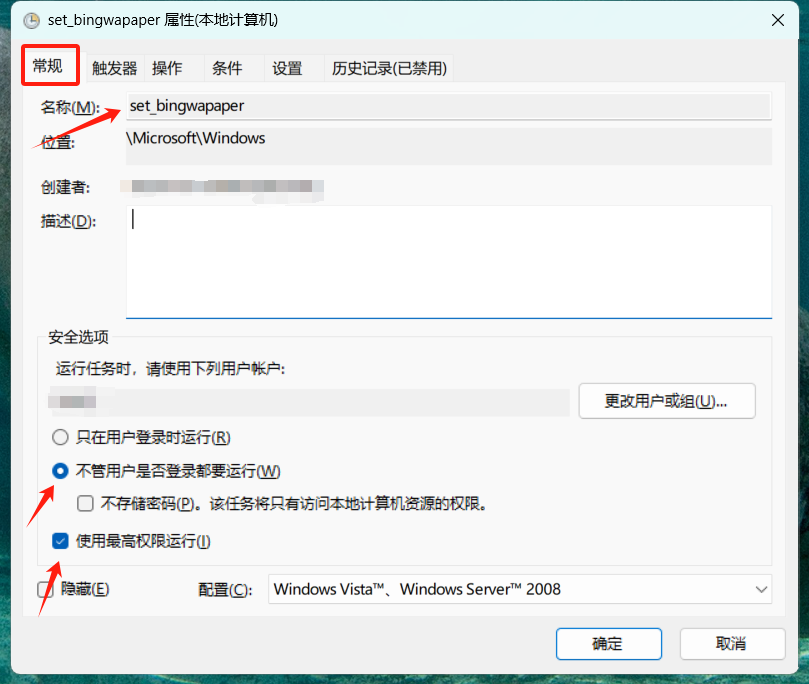
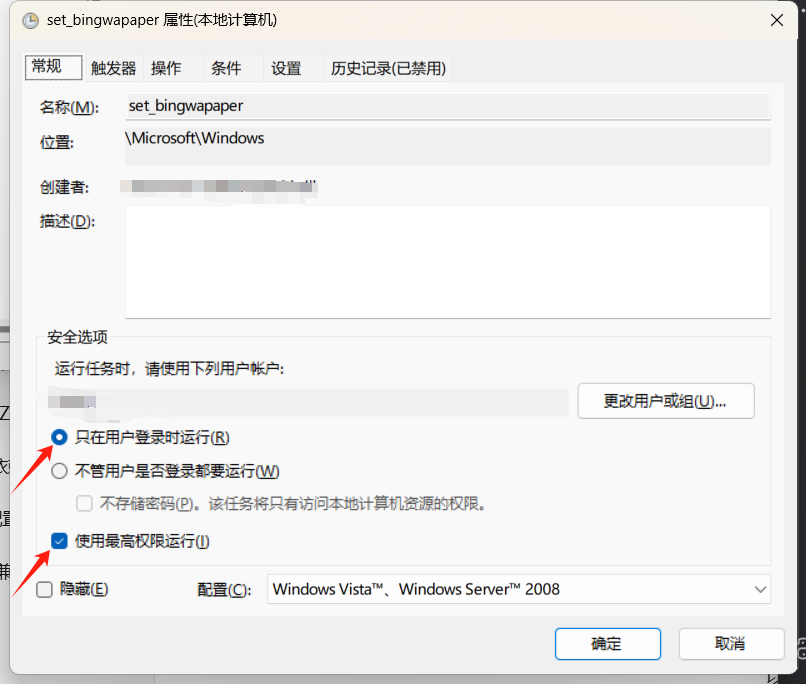
2.1 修复windows计划任务程序调用程序时出现1459报错

diff --git a/README.md b/README.md
@@ -41,7 +41,7 @@ cd BingWapaper
 
    3. 为任务起名和设置安全选项（安全选项根据自己需求设置）
 
-      ![image-20250326155133460](images/image-20250326155133460.png)
+      ![image-20250327133930066](images/image-20250326155133460.png)
 
    4. 根据自己需求设置触发器
 
@@ -49,7 +49,7 @@ cd BingWapaper
 
       ![image-20250326155541200](images/image-20250326155541200.png)
 
-      ![image-20250326155653215](images/image-20250326155653215.png)
+      ![image-20250327134246975](images/image-20250326155653215.png)
 
       
 
